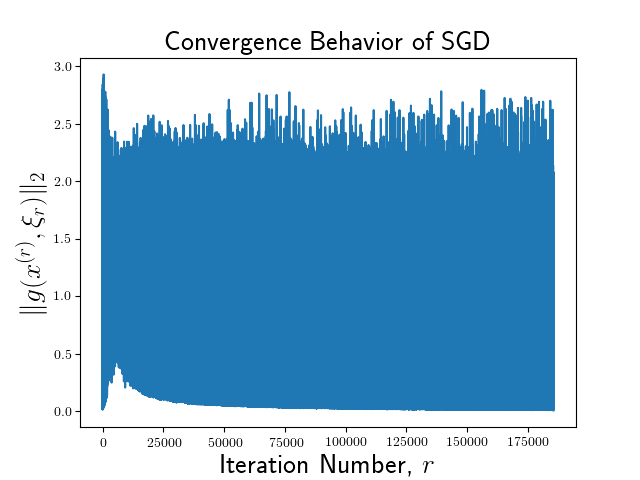
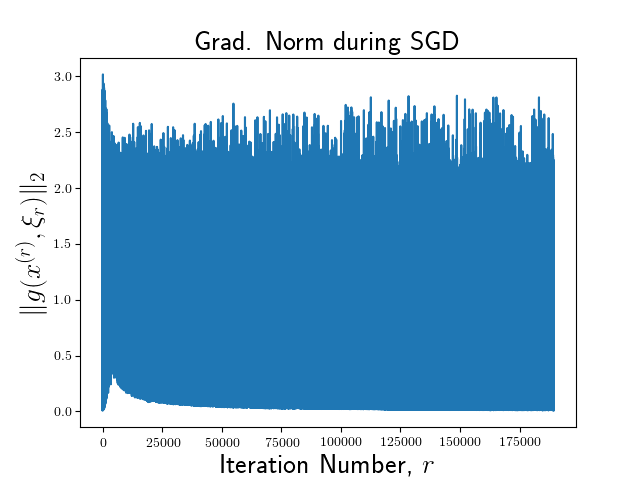
Added plots illustrating the need for a learning schedule when using SGD

diff --git a/SVRG_experiments.py b/SVRG_experiments.py
@@ -69,6 +69,7 @@ def SGD_logistic(X, y, init_lr=0.001, a=1.1, eps=0.01):
     grad_norm = eps + 1
     iter_num = 0
     grad_norms = []
+    scaled_grad_norms = []
     # If the gradient l2 norm falls below our specified epsilon value,
     # then we have attained convergence 
     while grad_norm > eps:
@@ -79,11 +80,12 @@ def SGD_logistic(X, y, init_lr=0.001, a=1.1, eps=0.01):
         print(grad_norm)
         # Updating our learning rate from schedule
         alpha_j = init_lr*a**(iter_num//N)
+        scaled_grad_norms.append(alpha_j*grad_norm)
         # Adding because objective function is concave
         w = w + alpha_j*grad
         iter_num += 1
     
-    return w, grad_norms
+    return w, grad_norms, scaled_grad_norms
 
 
 def GD_logistic(X, y, lr=1e-3, max_iter=10000, epsilon=0.1):
@@ -180,16 +182,26 @@ def SVRG_testbed(X_train, y_train, X_test, y_test):
     text_format = {'color': 'k', 'fontsize': 20}
     
     freq = 10
-    w_sgd, grad_norms_sgd = SGD_logistic(X_train.to_numpy(), y_train.to_numpy())
+    w_sgd, grad_norms_sgd, scaled_grad_norms_sgd = SGD_logistic(X_train.to_numpy(), y_train.to_numpy())
     w_svrg, grad_norms_svrg, _, _ = SVRG_logistic(X_train.to_numpy(), y_train.to_numpy(), freq)
     iters = np.arange(len(grad_norms_svrg))
+    
+    
     plt.figure(1)
     plt.plot(grad_norms_sgd)
     plt.xlabel('Iteration Number, $r$', text_format)
     plt.ylabel('$\\|g(x^{(r)},\\xi_r)\\|_2$', text_format)
-    plt.title('Convergence Behavior of SGD', text_format)
+    plt.title('Grad. Norm during SGD', text_format)
     plt.savefig('plots/SGD_Full_Convergence_ex.png')
 
+    plt.figure(2)
+    plt.plot(scaled_grad_norms_sgd)
+    plt.xlabel('Iteration Number, $r$', text_format)
+    plt.ylabel('$c(r)\\|g(x^{(r)},\\xi_r)\\|_2$', text_format)
+    plt.title('Scaled Grad. Norm during SGD', text_format)
+    plt.savefig('plots/SGD_Scaled_Full_Convergence_ex.png')
+
+    '''
     plt.figure(2)
     plt.plot(grad_norms_svrg)
     plt.xlabel('Iteration Number, $s$', text_format)
@@ -197,7 +209,7 @@ def SVRG_testbed(X_train, y_train, X_test, y_test):
     plt.title('Convergence Behavior of SVRG', text_format)
     plt.savefig('plots/SVRG_Convergence_ex.png')
     #title_text_format = {'color': 'k', 'fontsize': 16}
-    '''
+   
     update_freqs = [2,5,10,15,20,25,30,35,40,45,50,75,100]
     SVRG_ws = []
     SVRG_tot_iters = []
